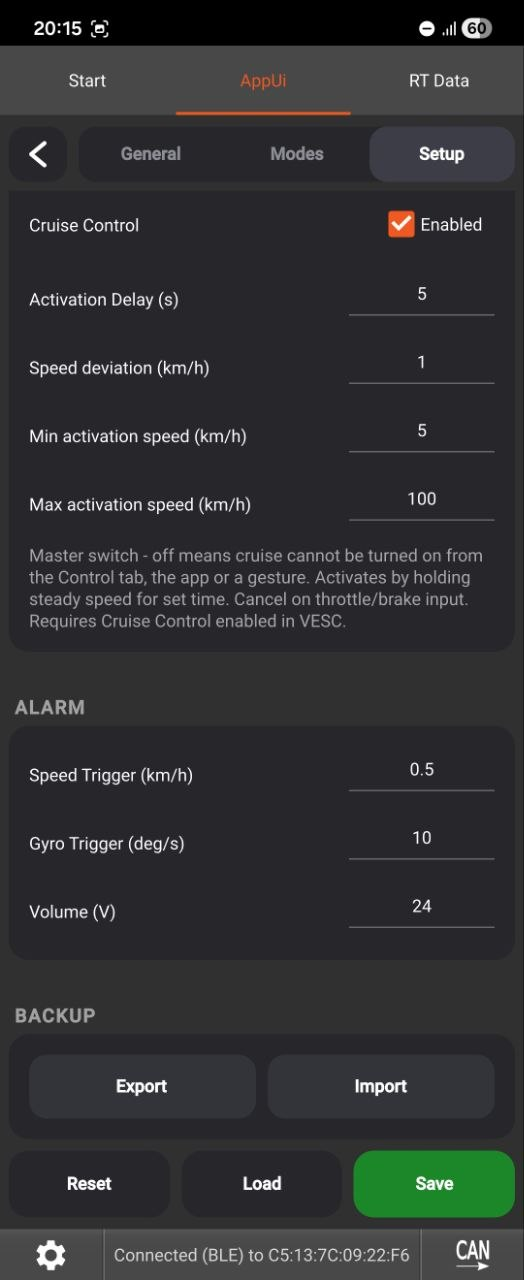
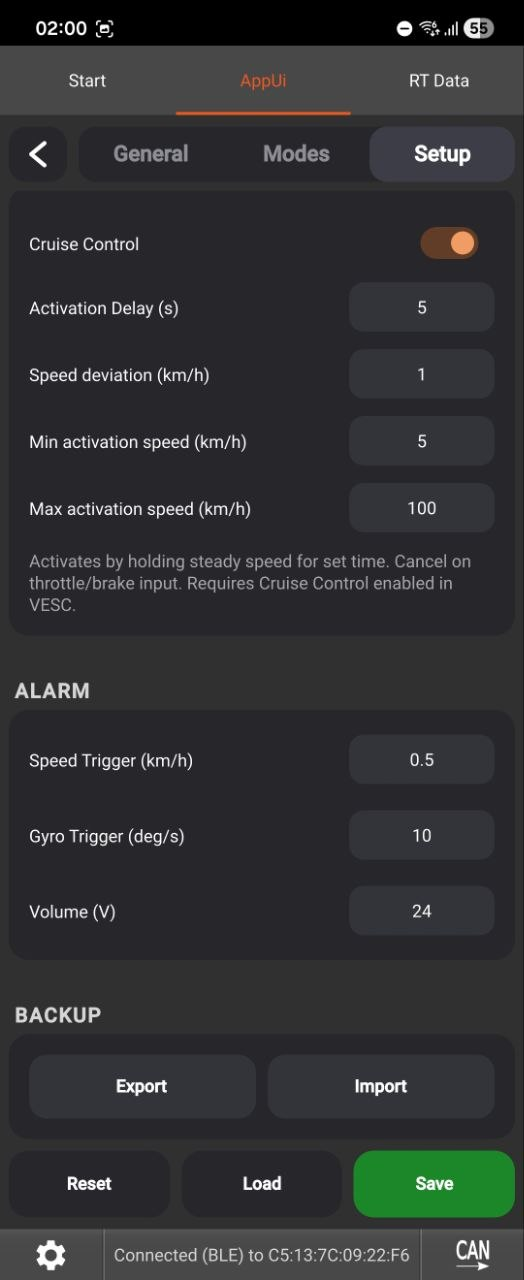
Screenshots, v4.0 release notes, and the README caught up
Functions that changed since the README was last touched and are now in it: the power
sub-dial scales to the watt limit times the number of controllers, so a dual reads
right; a function switched off in Setup greys out on the Control tab instead of
sitting there coloured; and Use Miles is named, which an audit of every UI label
against the README turned up as the one setting the text never mentioned.

The app PIN says what it is: answered on request, but none of the three apps ever asks
- they take a headlight state change as the pairing confirmation, which is what the
captures showed.

The 5V warning moves down to the rear light, where the load it warns about actually
is. Two things now set that light, not three.

Dropped as asked: the trapped-faults and const-heap bullets from Robustness, and the
Always ON Tail Light line.

v4.0 release notes rewritten to cover everything since the v3.0 tag - the app support
and throttle work, G2, gestures at speed, dashboard power control, the rebuilt UI,
backup, and the changed defaults.

diff --git a/docs/release-notes.md b/docs/release-notes.md
@@ -22,8 +22,11 @@ listens to.
   headlight.
 - **Battery screen**: on Xiaomi the BMS is emulated, so the app's battery page is populated.
 - **Shutdown from the app** switches the dashboard off, refused above walking pace.
-- **App pairing PIN** - set your own 6-digit code in Setup.
-- **App support can be turned off** in Setup for the sharpest possible throttle.
+- **App pairing PIN** - set your own 6-digit code in Setup. The package answers it, though
+  none of the three apps ever asks: they treat a headlight state change as the pairing
+  confirmation.
+- **App support is off by default** and switchable in Setup - turn it on to use an app,
+  leave it off for the sharpest throttle.
 - Reports firmware 7.0.0 and a `VESC` + ten digit serial so app authors can detect a VESC
   and adapt. Protocol notes: [docs/ninedash.md](ninedash.md).
 
@@ -49,6 +52,16 @@ turn signal lamps, so that button is free.
 talking to its own stock controller, but nobody has run this code on a G2 yet. Please
 report back if you have one.
 
+### Gestures work while riding
+
+The speed above which gestures stop responding is yours to set - **Disable Gestures above**
+in Setup. It defaults to 0.1 km/h, which means standstill only; raise it and modes, the
+headlight and secret mode are all reachable at speed. **Lock** and **power off** are the
+exceptions: they are never accepted with the wheel turning, whatever that is set to.
+
+**Secret OFF** is a new gesture that can only ever *leave* secret mode, so it is a way out
+that cannot turn it on by mistake, and it gained a *Locked* option of its own.
+
 ### Dashboard power control
 
 **ADC1** or **ADC2** can switch the dashboard's supply through a MOSFET - 3.3 V while the
@@ -57,41 +70,49 @@ stays low until the script runs, the dashboard no longer shows error 10 while th
 boots. Off by default. The chosen pin is detached from the ADC app, so it stops working as
 a lever input - the UI warns in red which lever that costs you.
 
-### Rebuilt Control tab
+### Rebuilt UI
 
-- A large speed dial with a **power sub-dial** that scales to the active mode's watt limit,
-  regen shown in a different colour.
+- A large **speed dial** with a power sub-dial that scales to the active mode's watt limit
+  times the number of controllers on the bus, so a dual reads correctly. Regen shown in its
+  own colour.
 - **Battery bar** that walks green to red as the pack drains and alternates between charge
-  and estimated range.
+  and estimated range, with **consumption** (Wh/km or Wh/mi) inside the dial.
 - **Voltage, current, controller and motor temperature** as four cards; the temperatures
   flash red above the warning thresholds set in Setup.
-- **Consumption** (Wh/km or Wh/mi) inside the dial.
-- Power and settings as badges on the dial, a sliding **mode selector**, and lock, secret,
-  light and cruise as full-width buttons.
-- The whole page **scales to the window** and only scrolls once it genuinely cannot fit.
-- Settings are grouped into cards across **General**, **Modes** and **Setup**, reached
-  through the settings badge instead of a tab bar.
+- A function switched off in Setup **reads as off** on the Control tab - cruise and secret
+  grey out and stop responding rather than sitting there coloured.
+- Everything sits on **cards**, on every screen, with one grey for anything you can touch.
+  Settings are grouped across **General**, **Modes** and **Setup**, reached through the
+  settings badge instead of a tab bar.
+- The Control page **scales to the window** and only scrolls once it genuinely cannot fit.
+
+### Backup
+
+**Export** puts every saved setting on the clipboard as a short block of text; **Import**
+takes it back and fills in the fields for you to Save. VESC Tool gives a package no way to
+write a file, so a backup travels as text rather than as a download. The model is not part
+of it, since it belongs to the unit.
 
 ### Other changes
 
 - **Software ADC is switchable per channel** - take throttle from the dashboard and leave
-  brake on a lever wired to the ADC pin, or the other way round.
-- **Light compensation** is only offered for the channels that actually come from the
-  dashboard.
-- **Cruise control's Setup switch is now a master switch** - with it off, cruise cannot be
-  turned on from the Control tab, the app or a gesture.
-- **Secret OFF** gained a *Locked* option, so leaving secret mode can be restricted to the
-  locked state.
+  brake on a lever wired to the ADC pin, or the other way round. **Light compensation** is
+  only offered for the channels that actually come from the dashboard.
+- **Cruise control's Setup switch is a master switch** - with it off, cruise cannot be
+  turned on from the Control tab, an app or a gesture.
 - **Idle display**: pick what the dashboard shows at rest - battery %, pack voltage,
-  controller or motor temperature.
-- **The package says so when the script no longer fits** the controller's const heap,
-  instead of appearing to install and then failing at the next boot.
-- CAN slaves are told to shut down with the master.
+  controller or motor temperature. Off by default now, for both normal and secret modes.
+- **CAN slaves are told to stop** with the master, instead of holding their last command
+  until it times out.
+- **Secret watts** default to 1000 / 1500 / 2000. They were previously unlimited.
+- **The model defaults to Slave**, so a fresh install drives nothing until you tell it which
+  dashboard it has. **Reset** returns it to Slave as well.
 
 ### Upgrading
 
 Install over the old package. Anything older than v4.0 is reconfigured from defaults, so
-**check every tab and re-run the light compensation calibration** after updating.
+**check every tab and re-run the light compensation calibration** after updating. An
+upgrade keeps the model it had; only an explicit Reset returns it to Slave.
 
 ---
 

diff --git a/README.md b/README.md
@@ -97,9 +97,12 @@ Lock, mode switching, headlight, secret mode and leaving secret mode are fully r
   Control tab, an app or a gesture
 
 ### 📱 Control tab
-- Live speed dial with a power sub-dial that scales to the active mode's watt limit, battery
-  bar alternating charge and estimated range, and voltage, current, controller and motor
-  temperature - the temperatures flash red above the warning thresholds
+- Live speed dial with a power sub-dial that scales to the active mode's watt limit times
+  the number of controllers on the bus, a battery bar alternating charge and estimated
+  range, and voltage, current, controller and motor temperature - the temperatures flash
+  red above the warning thresholds
+- A disabled function reads as off: with cruise or secret switched off in Setup, its button
+  greys out and stops responding rather than sitting there coloured
 - Buttons for power, lock/unlock, headlight, secret, cruise and mode selection
 
 ### 🔗 Third-party app support
@@ -115,7 +118,9 @@ including pairing.
   secret, **Direct power control** toggles the headlight
 - **Battery screen** is populated on Xiaomi - the BMS is emulated
 - **Shutdown from the app** switches the dashboard off, refused above walking pace
-- **App pairing PIN** - set your own 6-digit code in Setup
+- **App pairing PIN** - set your own 6-digit code in Setup. The package answers it, but
+  none of the three apps above ever asks: they treat a headlight state change as the
+  pairing confirmation instead, so the code is there for an app that wants it
 - Can be turned off in **Setup -> Miscellaneous** for the sharpest possible throttle response
 - Protocol details and app pacing measurements:
   [notes for the NineDash developer](docs/ninedash.md)
@@ -130,7 +135,7 @@ including pairing.
   voltage, controller or motor temperature instead. Set separately for normal and secret modes
 - **BMS battery %** - a reporting VESC BMS supplies the percentage, with a temperature
   warning above 50 °C or below 0 °C
-- **mph** - dash speed and every speed-related setting switch between km/h and mph
+- **Use Miles** - dash speed and every speed-related setting switch between km/h and mph
 - **Temperature warning icon** with configurable thresholds
 - **Ninebot Max G2** - the handlebar **horn** sounds the dash buzzer, and **holding the turn
   signal button** for three seconds toggles cruise control
@@ -169,10 +174,6 @@ including pairing.
   until it times out
 - **App traffic never delays the levers** - replies are composed in advance and carried
   inside the dash reply the controller was going to send anyway
-- **Transient faults are trapped** - a BMS, CAN or gyro error cannot kill button, lock and
-  alarm handling
-- **The package says so if the script no longer fits** the controller's memory, instead of
-  installing and then failing at the next boot
 - Hardened UART frame parsing and supervised reader threads
 - Runs from flash; settings stored on the ESC with versioned automatic migrations
 
@@ -269,27 +270,23 @@ as the wiring allows. The electrolytic is polarised: its **marked leg is the min
 and goes to GND**, getting that backwards will destroy it. The ferrite clips over
 the whole bundle anywhere along its length.
 
-> ⚠ **Check what your VESC's 5V output can supply before wiring it this way.**
-> The dashboard runs from that rail, and a rear/brake light or headlight draws
-> from the same one. On some VESCs it is not enough for all of it. If yours is
-> marginal, power the lights (and/or the dashboard) from a separate step-down
-> converter off the main battery instead, sharing a common ground with the VESC.
-
 #### Rear / brake light (optional)
 
 Driven from the **servo/PPM pin** through an N-channel MOSFET (PWM at 200 Hz - dim tail
 light, full brightness brake light).
 Wiring by [Zodiak1993](https://github.com/Zodiak1993/vesc_m365_dash).
 
-Three things must all be set or the light stays dark:
+Two things must both be set or the light stays dark:
 
 1. **VESC Tool -> App Settings -> General -> `Servo Output` = enabled**
 2. **Setup tab -> `Tail Light Output`** - the master switch. With it off the servo/PPM
    pin is never touched, so it stays free for something else
-3. **Setup tab -> `Always ON Tail Light`** - only if you want the tail light lit
-   independently of the headlight
 
-Power the LED strip from a source that can supply it (see the 5V note above):
+> ⚠ **Check what your VESC's 5V output can supply before wiring it this way.**
+> The dashboard runs from that rail, and a rear/brake light or headlight draws
+> from the same one. On some VESCs it is not enough for all of it. If yours is
+> marginal, power the lights (and/or the dashboard) from a separate step-down
+> converter off the main battery instead, sharing a common ground with the VESC.
 
 ![Rear / brake light](screenshots/wiring-taillight.svg)
 
